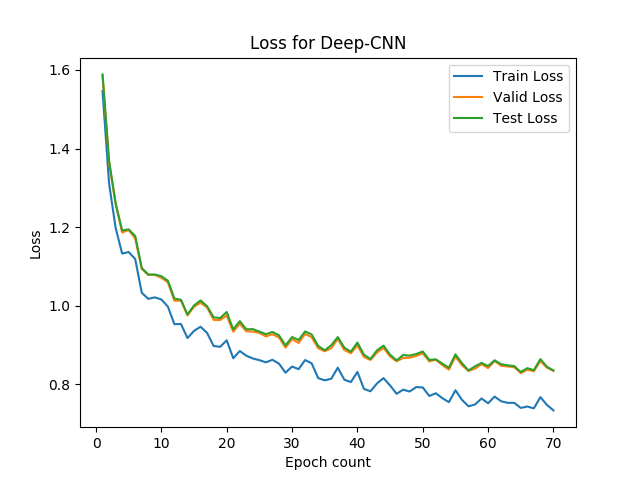
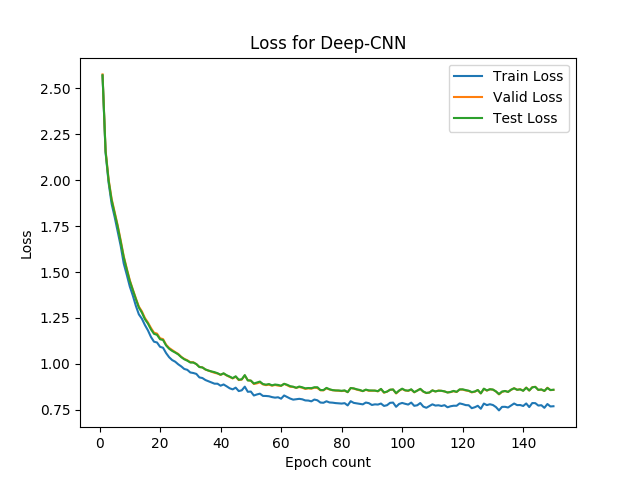
conv data

diff --git a/training.py b/training.py
@@ -9,10 +9,10 @@ import time
 
 batch_size = 64
 target_length = 50 # 50
-learning_rate = 0.001
+learning_rate = 0.0001
 num_words, dim_embedding = 11400, 100 # 100
 num_classes = 20
-num_epochs = 300
+num_epochs = 150
 base_path = "data/"
 word_path = "word_embeddings/" # char_embeddings
 
@@ -133,7 +133,7 @@ def plot_tri(a, title):
 def train_model(data_pack, num_epochs, learning_rate, num_words, dim_embedding, num_classes):
     train_X, train_y, valid_X, valid_y, test_X, test_y = data_pack
 
-    model_name = "Baseline-BoW" # Shallow-LSTM, Baseline-AvEmbedding, Baseline-BoW
+    model_name = "Deep-CNN" # Shallow-LSTM, Baseline-AvEmbedding, Baseline-BoW
     if model_name == "Baseline-BoW":
         model = Bag_of_Words(num_words, num_classes)
     elif model_name == "Baseline-AvEmbedding":
